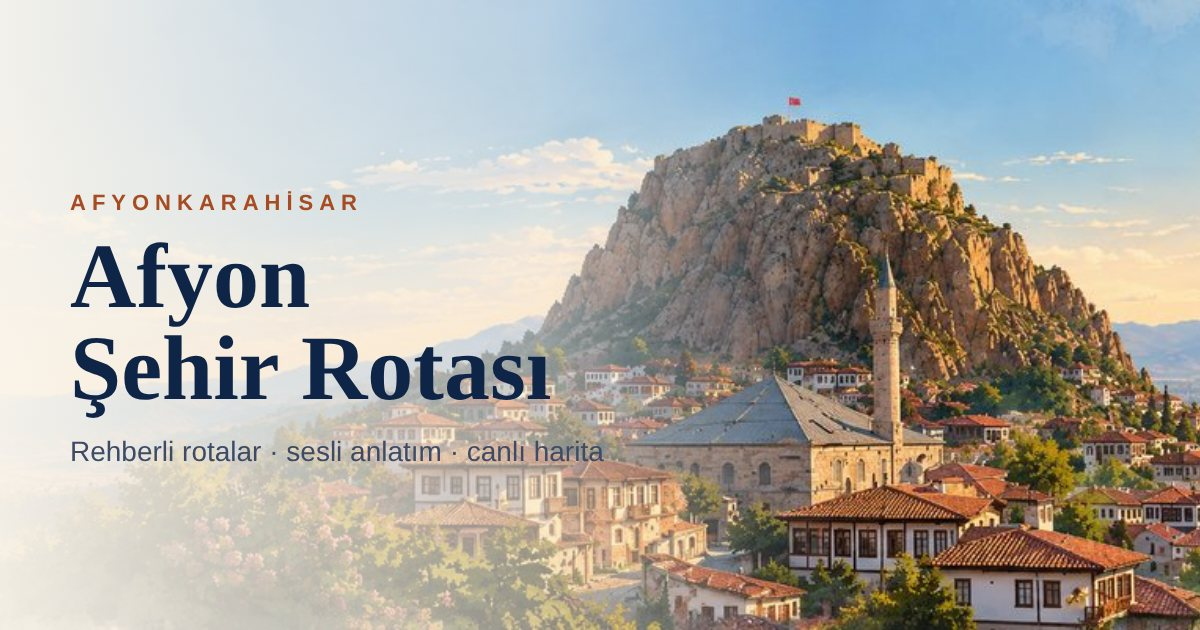
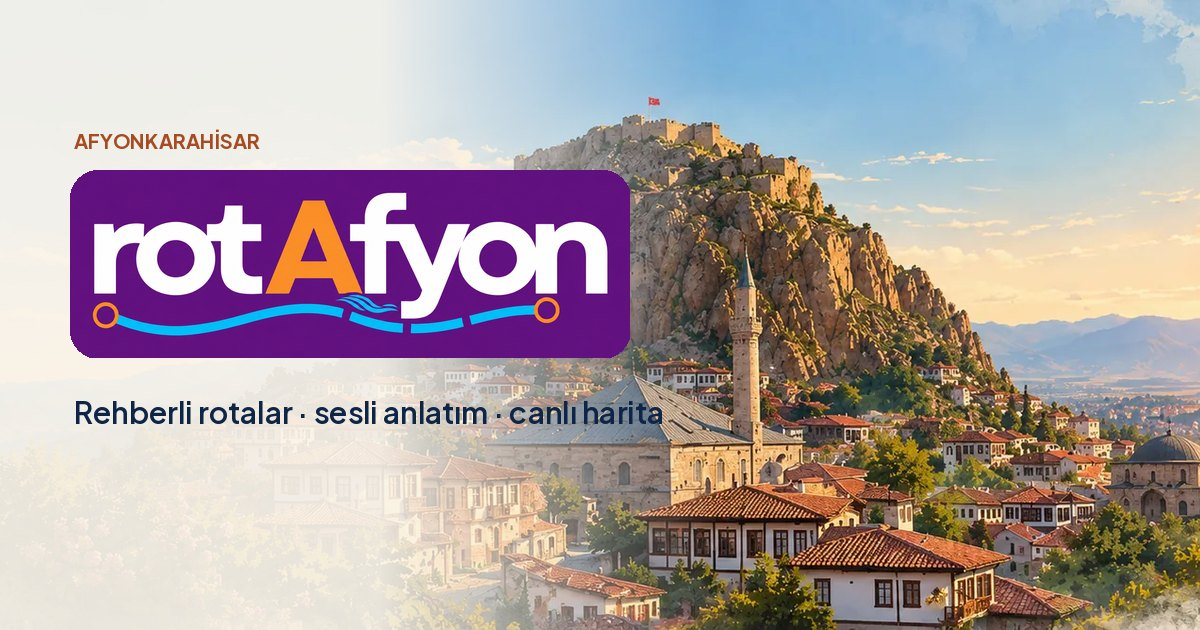
G-008: rotAfyon logosu, simgeler ve paylaşım görseli
Üst menüde ve giriş sayfasında logo, uygulama simgesi, Apple simgesi,
maskelenebilir PWA simgesi ve Open Graph görseli yeni logoyla değiştirildi.

Claude-Session: https://claude.ai/code/session_01GLhZjphbf86MbWYj7Xq3yX

diff --git a/app/manifest.ts b/app/manifest.ts
@@ -1,5 +1,5 @@
 import tr from "@/messages/tr.json";
 import type { MetadataRoute } from "next";
 export default function manifest(): MetadataRoute.Manifest {
-  return { name: tr.metadata.title, short_name: tr.metadata.shortName, start_url: "/", display: "standalone", background_color: "#FAF5EC", theme_color: "#0F2547", lang: "tr", description: tr.metadata.manifestDescription, icons: [{ src: "/icon.png", sizes: "512x512", type: "image/png", purpose: "any" }, { src: "/apple-icon.png", sizes: "180x180", type: "image/png" }] };
+  return { name: tr.metadata.title, short_name: tr.metadata.shortName, start_url: "/", display: "standalone", background_color: "#FAF5EC", theme_color: "#0F2547", lang: "tr", description: tr.metadata.manifestDescription, icons: [{ src: "/icon.png", sizes: "512x512", type: "image/png", purpose: "any" }, { src: "/apple-icon.png", sizes: "180x180", type: "image/png" }, { src: "/icon-maskable-512.png", sizes: "512x512", type: "image/png", purpose: "maskable" }] };
 }

diff --git a/app/[locale]/(pages)/giris/page.tsx b/app/[locale]/(pages)/giris/page.tsx
@@ -24,7 +24,7 @@ export default async function Giris({ params }: { params: Promise<{locale: Local
         <div className="absolute inset-0 bg-gradient-to-b from-[#08122c]/75 via-[#08122c]/25 to-transparent" />
         <div className="relative">
         <p className="text-[10.5px] font-bold tracking-[2px] opacity-90">{tx("afyonkarahSar_6ac24")}</p>
-        <h1 className="mt-2 font-display text-[40px] font-semibold leading-[1.02] tracking-tight">{tx("afyonCityRoutes_f38c8")}</h1>
+        <h1 className="mt-3">{/* eslint-disable-next-line @next/next/no-img-element */}<img src="/brand/rotafyon-480.webp" srcSet="/brand/rotafyon-480.webp 1x, /brand/rotafyon-960.webp 2x" width={179} height={60} alt={tx("afyonCityRoutes_f38c8")} className="h-[60px] w-auto rounded-xl" /></h1>
         <p className="mt-3 max-w-[300px] text-[15px] leading-relaxed opacity-90">{tx("guidedRoutesThroughTheCastle_41055")}</p>
         </div>
       </section>

diff --git a/components/TopNav.tsx b/components/TopNav.tsx
@@ -15,8 +15,7 @@ export default function TopNav() {
       <nav aria-label={t("menu")} className="mx-auto flex h-full max-w-[1280px] items-center gap-3 px-6">
         <Link href="/" className="flex items-center gap-2.5">
           {/* eslint-disable-next-line @next/next/no-img-element */}
-          <img src="/apple-icon.png" alt="" className="h-9 w-9 rounded-xl shadow-card" />
-          <span className="font-display text-[19px] font-semibold leading-none">{t("brand")}</span>
+          <img src="/brand/rotafyon-480.webp" srcSet="/brand/rotafyon-480.webp 1x, /brand/rotafyon-960.webp 2x" width={107} height={36} alt={t("brand")} className="h-9 w-auto rounded-lg" />
         </Link>
         <ul className="flex flex-1 items-center gap-1">
           {links.map(([h, l]) => (
